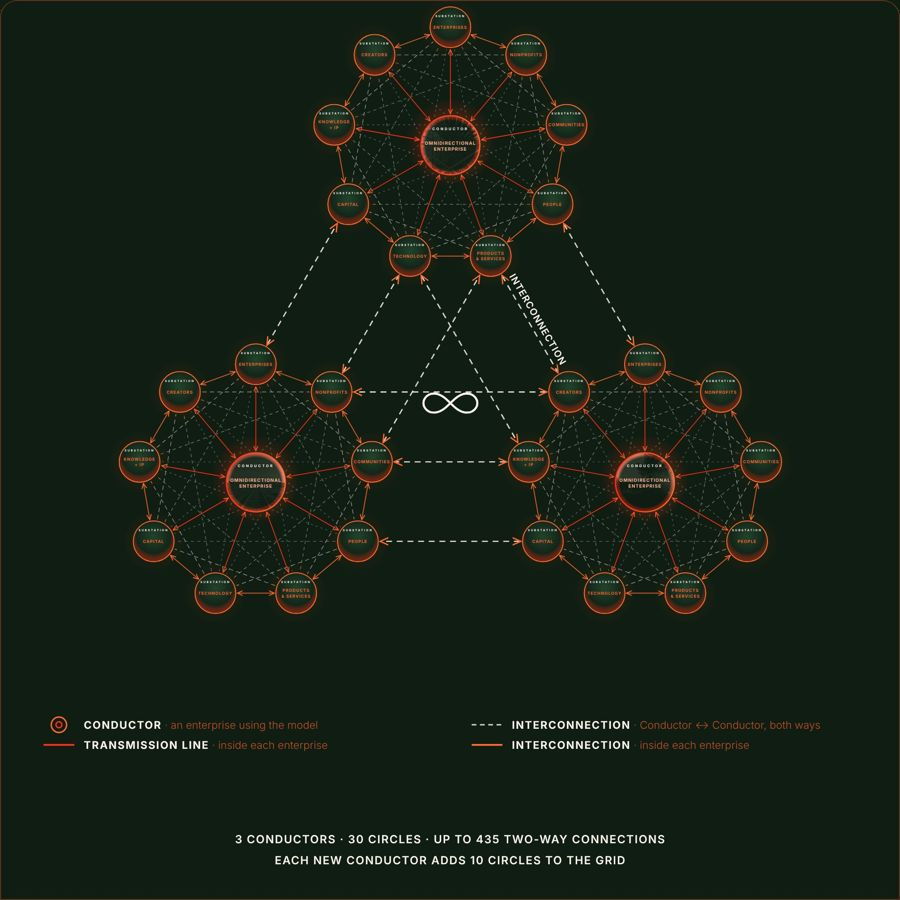
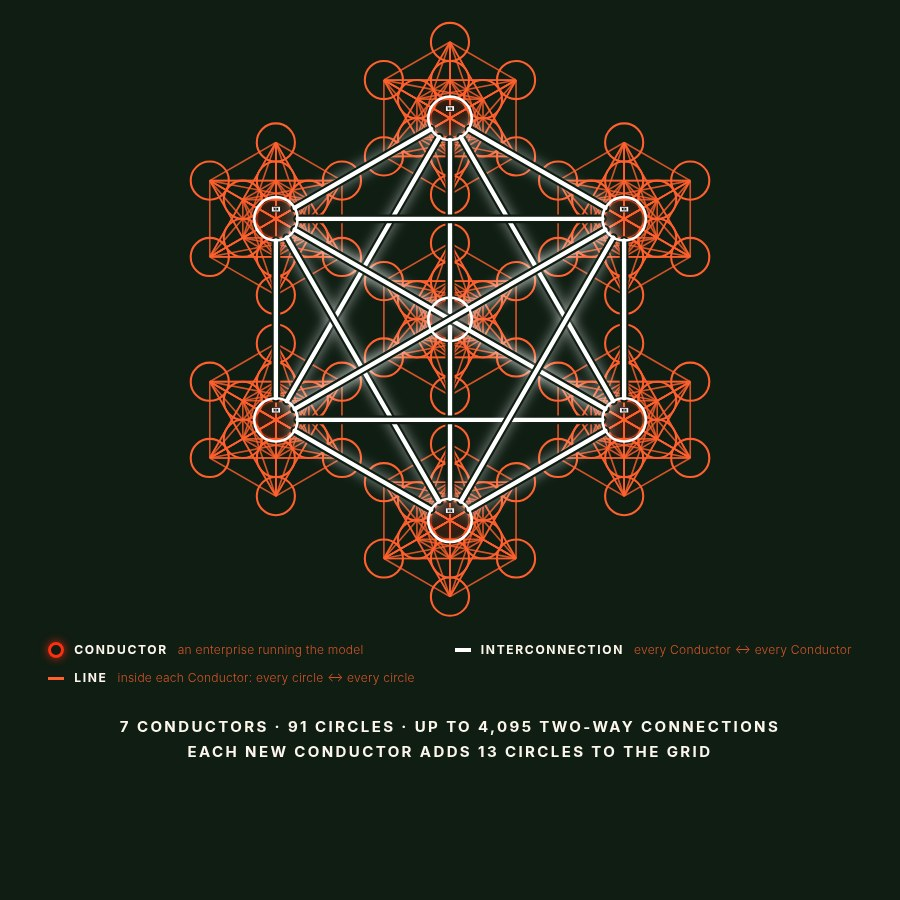
Omnidirectional Enterprise Model™ figures 1–4 on Metatron's Cube (interactive page, images, deck counts)

diff --git a/js/oe-figures.js b/js/oe-figures.js
@@ -23,13 +23,14 @@ const CUR=[
 ];
 const TYPES={
  source:{name:'The Source',kind:'Circle · centre',fn:'The Omnidirectional Enterprise Model™. It powers the whole system, owns and licenses the IP, and every substation draws from it.'},
- branch:{name:'Substation',kind:'Circle · substation',fn:'A place where economic activity happens. Each substation exchanges with the Source and with the substations beside it.'},
+ branch:{name:'Substation',kind:'Circle · substation',fn:'A place where economic activity happens. Each substation exchanges with the Source and with every other substation.'},
+ grid:{name:'The Grid',kind:'Circle · the next, larger cube',fn:'Every Grid is one circle of a larger Metatron’s Cube. The same geometry repeats at every scale, without end.'},
  trans:{name:'Transmission line',kind:'Line · Source ↔ substation',fn:'Carries power from the Source out to a substation and carries value back. Two-way.'},
  inter:{name:'Interconnection',kind:'Line · substation ↔ substation, Conductor ↔ Conductor',fn:'Lets two parts exchange directly, without going through the Source. This is what makes the model omnidirectional.'},
  current:{name:'Current',kind:'Line · flow of value',fn:'A flow of value. Currents can run from any circle to any other, in any direction, without end.'},
  badge:{name:'Current marker',kind:'Circle · number',fn:'Marks which Current runs along the line beside it. The key lists every Current.'},
  dist:{name:'Distribution line',kind:'Line · substation → Conductor',fn:'Carries power from a substation out to the Conductors that work in it.'},
- conductor:{name:'Conductor',kind:'Circle · an enterprise using the model',fn:'An enterprise using the model: its own Source, substations, Transmission lines and Interconnections, connected to the other enterprises.'},
+ conductor:{name:'Conductor',kind:'Cube · an enterprise using the model',fn:'An enterprise using the model: its own Source and 12 substations on the same Metatron’s Cube, connected to every other Conductor.'},
  ent:{name:'Enterprise',kind:'Circle · enterprise',fn:'An enterprise running the same model: its own Source and substations, connected to every other enterprise in the network.'},
  next:{name:'Next generation',kind:'Circle · outer ring',fn:'An enterprise a Conductor serves. Each Conductor runs the same model, so the web keeps growing outward.'},
  nextline:{name:'Next-generation line',kind:'Line · Conductor → next generation',fn:'Carries power from a Conductor to the enterprises, creators and communities it serves.'}
@@ -258,21 +259,94 @@ function liveCurrents(svg){
  const reduce=window.matchMedia&&matchMedia('(prefers-reduced-motion: reduce)').matches;
  if(!reduce)setInterval(()=>{if(svg.classList.contains('oef-flowing'))add();},450);
 }
+// ---- Metatron's Cube figures (exact geometry: 13 equal circles, centre + six at 2r + six at 4r, 78 lines) ----
+// Inner ring = independent (held inside an enterprise); outer ring = external, dependent participants.
+const MSLOT=[['o90','Enterprises'],['o30','Partners'],['o330','Nonprofits'],['o270','Communities'],['o210','Members'],['o150','Founders'],['i90','People'],['i30','Knowledge + IP'],['i330','Technology'],['i270','Products & Services'],['i210','Capital'],['i150','Creators']];
+const NEWBR={Partners:{n:'Partners',l:['Partnership™'],co:['Partnership™']},Members:{n:'Members',l:['The .LLab','Membership™'],co:['The .LLab','Membership™']},Founders:{n:'Founders',l:['The Co.LLab','Founders','Organization™'],co:['The Co.LLab','Founders','Organization™']}};
+const node=n=>BR.find(b=>b.n===n)||NEWBR[n];
+function mc(cx,cy,r){const c={core:[cx,cy]};for(let k=0;k<6;k++){const a=(90+60*k)%360,t=rad(a);c['i'+a]=[cx+2*r*Math.cos(t),cy-2*r*Math.sin(t)];c['o'+a]=[cx+4*r*Math.cos(t),cy-4*r*Math.sin(t)];}return c;}
+const NAME=Object.fromEntries(MSLOT);NAME.core='The Source';
+const HALO=`paint-order="stroke" stroke="${C.bg}" stroke-width="4" stroke-linejoin="round"`;
+const MCUR=[[1,'o90','core'],[1,'i210','core'],[2,'core','i30'],[2,'i30','o90'],[3,'o90','i30'],[4,'core','i330'],[4,'i330','i150'],[5,'i150','o270'],[6,'o90','i150'],[6,'o90','i90'],[7,'o270','o330']];
+// one small cube (no labels), used for Conductors
+function miniCube(x,y,r,o){o=o||{};const c=mc(x,y,r),k=Object.keys(c);let s='';
+ for(let i=0;i<13;i++)for(let j=i+1;j<13;j++){const [x1,y1]=c[k[i]],[x2,y2]=c[k[j]];s+=`<line x1="${x1.toFixed(1)}" y1="${y1.toFixed(1)}" x2="${x2.toFixed(1)}" y2="${y2.toFixed(1)}"/>`;}
+ s=`<g stroke="${C.f2}" stroke-opacity="${o.op||.82}" stroke-width="${o.lw||1}">${s}</g>`;
+ k.forEach(n=>{const [cx,cy]=c[n];s+=`<circle cx="${cx.toFixed(1)}" cy="${cy.toFixed(1)}" r="${r}" fill="none" stroke="${n==='core'?C.f1:C.f2}" stroke-width="${n==='core'?(o.cw||1.2)*1.6:(o.cw||1.2)}"/>`;});
+ return s;}
+function mFig(mode){
+ const W=760,H=mode===2?880:770,cx=380,cy=mode===2?378:385,r=62,c=mc(cx,cy,r),keys=Object.keys(c);let s=`<rect width="${W}" height="${H}" fill="${C.bg}"/><circle cx="${cx}" cy="${cy}" r="${2*r}" fill="url(#core${mode})"/>`;
+ for(let i=0;i<13;i++)for(let j=i+1;j<13;j++){const a=keys[i],b=keys[j],[x1,y1]=c[a],[x2,y2]=c[b];
+  if(a==='core'){const id=reg('trans',{name:`Transmission line · Source ↔ ${NAME[b]}`});s+=ln(x1,y1,x2,y2,C.f1,1.8,'oef-flow'+(j%2?' oef-rev':''),id,`stroke-opacity="${mode===2?.7:.95}"`);}
+  else{const id=reg('inter',{name:`Interconnection · ${NAME[a]} ↔ ${NAME[b]}`,kind:'Line · substation ↔ substation'});s+=ln(x1,y1,x2,y2,C.f2,1.4,'oef-flow'+((i+j)%2?' oef-rev':''),id,`stroke-opacity="${mode===2?.5:.72}"`);}}
+ let top='';
+ if(mode===2){const seen={},pts=Object.values(c);
+  MCUR.forEach(([k,a,b])=>{const key=[a,b].sort().join(),off=8*(seen[key]||0);seen[key]=(seen[key]||0)+1;const [x1,y1]=c[a],[x2,y2]=c[b],L=Math.hypot(x2-x1,y2-y1),ux=(x2-x1)/L,uy=(y2-y1)/L,nx=-uy*off,ny=ux*off;
+   const ax=x1+ux*(r+3)+nx,ay=y1+uy*(r+3)+ny,bx=x2-ux*(r+6)+nx,by=y2-uy*(r+6)+ny,cu=CUR[k-1];
+   const id=reg('current',{name:`${cu.n} (${k})`,kind:`Current · ${cu.d}`,fn:cu.w});
+   s+=`<line class="oef-part oef-flow" data-p="${id}" data-t="current" x1="${ax.toFixed(1)}" y1="${ay.toFixed(1)}" x2="${bx.toFixed(1)}" y2="${by.toFixed(1)}" stroke="${C.paper}" stroke-width="2.2" marker-end="url(#cur)"/>`;
+   let best=null,bd=-1;for(let t=4;t<=16;t++){const m=[ax+(bx-ax)*t/20,ay+(by-ay)*t/20],d=Math.min(...pts.map(p=>Math.hypot(m[0]-p[0],m[1]-p[1])));if(d>bd){bd=d;best=m;}}
+   const bid=reg('badge',{name:`Current marker ${k} · ${cu.n}`,fn:`${cu.d}. ${cu.w}`});
+   top+=`<g class="oef-part" data-p="${bid}" data-t="badge"><circle cx="${best[0].toFixed(1)}" cy="${best[1].toFixed(1)}" r="9.5" fill="${C.bg}" stroke="${C.paper}" stroke-width="1.4"/><text x="${best[0].toFixed(1)}" y="${(best[1]+3.6).toFixed(1)}" text-anchor="middle" font-size="10.5" font-weight="700" fill="${C.paper}">${k}</text></g>`;});}
+ const sid=reg('source',mode===2?{name:'The Source · The Co.LLab™'}:undefined);
+ s+=`<g class="oef-part" data-p="${sid}" data-t="source"><circle cx="${cx}" cy="${cy}" r="${r}" fill="none" pointer-events="visible" stroke="url(#fil${mode})" stroke-width="2.4" filter="url(#glow${mode})"/>
+ <text x="${cx}" y="${cy-(mode===2?14:8)}" text-anchor="middle" font-size="15" font-weight="600" fill="${C.paper}" ${HALO}>The Source</text>
+ <text x="${cx}" y="${cy+(mode===2?3:9)}" text-anchor="middle" font-size="8.5" font-weight="700" letter-spacing="1.2" fill="${C.fg}" ${HALO}>OMNIDIRECTIONAL</text>
+ <text x="${cx}" y="${cy+(mode===2?15:21)}" text-anchor="middle" font-size="8.5" font-weight="700" letter-spacing="1.2" fill="${C.fg}" ${HALO}>ENTERPRISE MODEL™</text>
+ ${mode===2?`<text x="${cx}" y="${cy+33}" text-anchor="middle" font-size="11" font-weight="700" fill="${C.paper}" ${HALO}>The Co.LLab™</text>`:''}</g>`;
+ MSLOT.forEach(([slot,n])=>{const b=node(n),[x,y]=c[slot],lines=mode===2?b.co:b.l,title=b.t||[b.n.toUpperCase()],ring=slot[0]==='i'?'Inner ring · independent':'Outer ring · external';
+  const id=reg('branch',{name:`Substation · ${b.n}`,kind:`Circle · substation · ${ring}`,fn:(mode===2?`Run inside The Co.LLab™ by ${b.co.join(' ')}. `:'')+(b.l||[]).join(' ')+' It exchanges with the Source and with every other substation.'});
+  const rows=title.length*12.5+lines.length*12.5+4;let yy=y-rows/2+10,t='';
+  title.forEach(tt=>{t+=`<text x="${x.toFixed(1)}" y="${yy.toFixed(1)}" text-anchor="middle" font-size="9.5" font-weight="700" letter-spacing="1.3" fill="${C.fg}" ${HALO}>${esc(tt)}</text>`;yy+=12.5;});yy+=4;
+  lines.forEach(tt=>{t+=`<text x="${x.toFixed(1)}" y="${yy.toFixed(1)}" text-anchor="middle" font-size="9.5" fill="${C.paper}" ${HALO}>${esc(tt)}</text>`;yy+=12.5;});
+  s+=`<g class="oef-part" data-p="${id}" data-t="branch"><circle cx="${x.toFixed(1)}" cy="${y.toFixed(1)}" r="${r}" fill="none" pointer-events="visible" stroke="${C.f2}" stroke-opacity=".9" stroke-width="1.6"/>${t}</g>`;});
+ s+=top;
+ if(mode===2){const y=H-96;s+=`<text x="28" y="${y}" font-size="11" font-weight="700" letter-spacing="1.5" fill="${C.fg}">KEY · THE CURRENTS</text>`;
+  CUR.forEach((cu,i)=>{const col=i<4?28:400,row=i<4?i:i-4;s+=`<text x="${col}" y="${y+22+row*19}" font-size="11.5" fill="${C.fg}"><tspan font-weight="700" fill="${C.paper}">${cu.k}</tspan>  ${esc(cu.n.replace('The ',''))}</text>`;});}
+ return wrapSvg(W,H,s,mode);}
+function connect(spots,cr,w,label){let s='';for(let i=0;i<spots.length;i++)for(let j=i+1;j<spots.length;j++){const [x1,y1,x2,y2]=trim(spots[i][0],spots[i][1],spots[j][0],spots[j][1],cr,cr);
+  const id=reg('inter',{name:label,kind:'Line · Conductor ↔ Conductor'});const a=`x1="${x1.toFixed(1)}" y1="${y1.toFixed(1)}" x2="${x2.toFixed(1)}" y2="${y2.toFixed(1)}"`;
+  s+=`<g class="oef-part" data-p="${id}" data-t="inter"><line ${a} stroke="${C.paper}" stroke-opacity=".3" stroke-width="${w*3}" stroke-linecap="round" filter="url(#icg)"/><line ${a} stroke="${C.bg}" stroke-width="${w+4}" stroke-linecap="round"/><line ${a} stroke="#fff" stroke-width="${w}" stroke-linecap="round"/></g>`;}
+ return s+spots.map(([x,y])=>`<circle cx="${x.toFixed(1)}" cy="${y.toFixed(1)}" r="${cr.toFixed(1)}" fill="none" stroke="#fff" stroke-width="${(w*.6).toFixed(1)}" pointer-events="none"/>`).join('');}
+const ICG='<defs><filter id="icg" x="-20%" y="-20%" width="140%" height="140%"><feGaussianBlur stdDeviation="5"/></filter></defs>';
+function mFew(){
+ const W=760,H=760,cx=380,cy=380,rs=23.5,D=252;const spots=[[cx,cy],...[0,1,2,3,4,5].map(k=>[cx+D*Math.cos(rad(90+60*k)),cy-D*Math.sin(rad(90+60*k))])];
+ let s=`<rect width="${W}" height="${H}" fill="${C.bg}"/>${ICG}`;
+ spots.forEach(([x,y],i)=>{const id=reg('conductor',{name:i===0?'Conductor · at the centre':'Conductor'});s+=`<g class="oef-part" data-p="${id}" data-t="conductor"><circle cx="${x.toFixed(1)}" cy="${y.toFixed(1)}" r="${(5*rs).toFixed(1)}" fill="${C.bg}" fill-opacity="0" pointer-events="visible"/>${miniCube(x,y,rs,{lw:1,op:.85,cw:1.3})}</g>`;});
+ s+=connect(spots,rs+3,4,'Interconnection · Conductor ↔ Conductor');
+ const [lx,ly]=spots[4];s+=`<text class="oef-lbl" x="${lx.toFixed(1)}" y="${(ly+5*rs+9).toFixed(1)}" text-anchor="middle">CONDUCTOR</text>`;
+ s+=`<text class="oef-lbl" x="${cx}" y="${(cy-D/2+4).toFixed(1)}" text-anchor="middle">INTERCONNECTION</text>`;
+ return wrapSvg(W,H,s,3);}
+function mGrid(){
+ const W=760,H=760,cx=380,cy=380,G=68,big=5*G,pos=mc(cx,cy,G),spots=Object.values(pos);
+ let s=`<rect width="${W}" height="${H}" fill="${C.bg}"/>${ICG}<defs><radialGradient id="gfade" cx="50%" cy="50%" r="60%"><stop offset=".55" stop-color="#fff" stop-opacity="0"/><stop offset=".75" stop-color="#fff" stop-opacity="1"/><stop offset="1" stop-color="#fff" stop-opacity=".2"/></radialGradient><mask id="gmask"><rect width="${W}" height="${H}" fill="url(#gfade)"/></mask></defs>`;
+ const ghosts=[[cx,cy],...[0,1,2,3,4,5].map(k=>[cx+2*big*Math.cos(rad(90+60*k)),cy-2*big*Math.sin(rad(90+60*k))])];
+ let g='';ghosts.forEach(([x,y],i)=>{const id=reg('grid',i===0?{name:'The Grid · one circle of the next, larger cube'}:{name:'The next Grid'});g+=`<circle class="oef-part" data-p="${id}" data-t="grid" cx="${x.toFixed(1)}" cy="${y.toFixed(1)}" r="${big}" fill="none" stroke="${C.paper}" stroke-opacity=".55" stroke-width="2"/>`;});
+ for(let i=0;i<7;i++)for(let j=i+1;j<7;j++){g+=`<line x1="${ghosts[i][0].toFixed(1)}" y1="${ghosts[i][1].toFixed(1)}" x2="${ghosts[j][0].toFixed(1)}" y2="${ghosts[j][1].toFixed(1)}" stroke="${C.paper}" stroke-opacity=".35" stroke-width="1.5"/>`;}
+ s+=`<g mask="url(#gmask)">${g}</g>`;
+ spots.forEach(([x,y],i)=>{const id=reg('conductor',{name:i===0?'The Co.LLab™ · the Conductor at the centre':'Conductor'});s+=`<g class="oef-part" data-p="${id}" data-t="conductor"><circle cx="${x.toFixed(1)}" cy="${y.toFixed(1)}" r="${G}" fill="${C.bg}" fill-opacity="0" pointer-events="visible"/>${miniCube(x,y,G/5,{lw:.7,op:.85,cw:.9})}</g>`;});
+ s+=connect(spots,G/5+2,2.2,'Interconnection · Conductor ↔ Conductor');
+ s+=`<text x="${cx}" y="${cy+4}" text-anchor="middle" font-size="10" font-weight="700" fill="${C.paper}" ${HALO}>The Co.LLab™</text>`;
+ s+=`<text class="oef-lbl" x="${cx}" y="${(cy-big-8).toFixed(1)}" text-anchor="middle">THE GRID · ONE CIRCLE OF THE NEXT CUBE</text>`;
+ return wrapSvg(W,H,s,4);}
+
 const CAP={
- 1:'<b>Figure 1 · Phase I · Foundations.</b> The Source at the centre and its substations around it. Transmission lines join each substation to the Source; Interconnections join each substation to the substations beside it. Every line runs both ways.',
- 2:'<b>Figure 2 · Phase II · Infrastructure Planning & Management.</b> The model The Co.LLab™ runs on, with every connection drawn: each circle connects with every other circle, both ways. Each substation names the part of The Co.LLab™ that runs it, and the numbered Currents are the named flows of value we run today.',
- 3:'<b>Figure 3 · Phase III · Internal Operating Systems.</b> Three Conductors, each a whole copy of the model in Figure 2, interacting substation to substation through Interconnections, both ways.',
- 4:'<b>Figure 4 · Phase IV · Preservation.</b> Conductors wired together: each runs the whole model, and Interconnections join its substations to the Conductors around it. Every Conductor adds circles, and the number of possible connections grows faster than the number of circles.'
+ 1:'<b>Figure 1 · Phase I · Foundations.</b> The Omnidirectional Enterprise Model™ as Metatron’s Cube: the Source at the centre and 12 substations around it, independent ones on the inner ring and external ones on the outer ring. Transmission lines join each substation to the Source; Interconnections join every substation to every other. Every line runs both ways. 1 Source · 12 substations · 78 two-way lines.',
+ 2:'<b>Figure 2 · Phase II · Infrastructure Planning & Management.</b> The model The Co.LLab™ runs on, with every connection drawn: each circle connects with every other circle, both ways. Each substation names the part of The Co.LLab™ that runs it, and the numbered Currents are the named flows of value we run today. 13 circles · 78 two-way connections · 7 Currents.',
+ 3:'<b>Figure 3 · Phase III · Internal Operating Systems.</b> Seven Conductors, each a whole copy of the model, every Conductor joined to every other by an Interconnection, both ways. Each new Conductor adds 13 circles. 7 Conductors · 91 circles · up to 4,095 two-way connections.',
+ 4:'<b>Figure 4 · Phase IV · Preservation.</b> The Grid: 13 Conductors on the 13 circles of a larger Metatron’s Cube, joined by its 78 lines. The next, larger cube fades in at the edges: every Grid is one circle of a larger cube, without end. 13 Conductors · 169 circles · up to 14,196 two-way connections.'
 };
 const roots=[...document.querySelectorAll('.oef-figure[data-fig]')];
 if(!roots.length)return;
 const ICON={source:`<circle cx="17" cy="10" r="8" fill="none" stroke="${C.f2}" stroke-width="1.8"/>`,branch:`<circle cx="17" cy="10" r="6" fill="none" stroke="${C.hair}" stroke-width="2"/>`,conductor:`<circle cx="17" cy="10" r="5" fill="${C.f2}"/>`,next:`<circle cx="17" cy="10" r="3" fill="${C.f2}" fill-opacity=".65"/>`,trans:`<line x1="3" x2="31" y1="10" y2="10" stroke="${C.f1}" stroke-width="2"/>`,dist:`<line x1="3" x2="31" y1="10" y2="10" stroke="${C.f2}" stroke-width="1.6"/>`,inter:`<line x1="3" x2="31" y1="10" y2="10" stroke="${C.paper}" stroke-width="1.4" stroke-dasharray="5 4"/>`,current:`<line x1="3" x2="31" y1="10" y2="10" stroke="${C.paper}" stroke-width="1.6" stroke-dasharray="5 4"/>`,badge:`<circle cx="17" cy="10" r="8" fill="none" stroke="${C.paper}" stroke-width="1.3"/>`,nextline:`<line x1="3" x2="31" y1="10" y2="10" stroke="${C.f2}" stroke-opacity=".5" stroke-width="1"/>`};
+ICON.grid=`<circle cx="17" cy="10" r="8" fill="none" stroke="${C.paper}" stroke-opacity=".6" stroke-width="1.4"/>`;
+ICON.conductor=`<circle cx="17" cy="10" r="7" fill="none" stroke="${C.f2}" stroke-width="1.4"/><circle cx="17" cy="10" r="2.6" fill="none" stroke="#fff" stroke-width="1.4"/>`;
 ICON.ent=`<circle cx="17" cy="10" r="7" fill="none" stroke="${C.f2}" stroke-width="1.6"/><circle cx="17" cy="10" r="2.5" fill="${C.f2}"/>`;
 const flowBox=document.getElementById('oef-flow'),lblBox=document.getElementById('oef-labels');
 function mount(root){
  const fig=+root.dataset.fig,q=sel=>root.querySelector(sel);
  const figEl=q('.oef-fig'),partsEl=q('.oef-parts-list'),pKind=q('.oef-kind'),pName=q('.oef-name'),pFn=q('.oef-fn');
- parts=[];figEl.innerHTML=fig===4?netFig():fig===3?fewFig():fig===2?coFig():basicFig();const my=parts;q('.oef-caption').innerHTML=CAP[fig];
+ parts=[];figEl.innerHTML=fig===4?mGrid():fig===3?mFew():mFig(fig);const my=parts;q('.oef-caption').innerHTML=CAP[fig];
  const svg=figEl.querySelector('svg');
  const show=p=>{pKind.textContent=p.kind;pName.textContent=p.name;pFn.textContent=p.fn;};
  const hot=(type,idx)=>{svg.classList.toggle('oef-dimmed',!!type);

diff --git a/pages/oe-business-model.html b/pages/oe-business-model.html
@@ -373,7 +373,7 @@
       <p class="eyebrow">Figure 3 · A few enterprises</p>
       <h2 class="headline" style="max-width:28ch;">Enterprises plug in, <strong>and start collaborating.</strong></h2>
       <p class="subhead" style="margin-top:1.25rem; max-width:66ch;">From there, any enterprise can run the model. Each one becomes a Conductor: its own Source, substations, Transmission lines and Interconnections, wired straight into the substations of other Conductors, both ways.</p>
-      <ol class="oef-read" style="margin:1.25rem 0 0;padding-left:1.25rem;max-width:66ch;line-height:1.6;"><li><b>Find one Conductor.</b> A whole Omnidirectional Enterprise, drawn as in Figure 2.</li><li><b>Follow an Interconnection across.</b> Dashed lines join its substations to the substations of the other Conductors.</li></ol>
+      <ol class="oef-read" style="margin:1.25rem 0 0;padding-left:1.25rem;max-width:66ch;line-height:1.6;"><li><b>Find one Conductor.</b> A whole Omnidirectional Enterprise, drawn as in Figure 2.</li><li><b>Follow an Interconnection across.</b> Solid white lines join every Conductor to every other Conductor, both ways.</li></ol>
       <p style="margin-top:1rem;font-weight:600;"><a href="omnidirectional-enterprise.html#figure-3">See Figure 3 →</a></p>
         </div>
       </div>
@@ -388,7 +388,7 @@
       <p class="eyebrow">Figure 4 · The Grid</p>
       <h2 class="headline" style="max-width:28ch;">Conductors wired together: <strong>the Grid.</strong></h2>
       <p class="subhead" style="margin-top:1.25rem; max-width:66ch;">Every enterprise that runs the model is a Conductor, and every Conductor joins the Grid. Interconnections link its substations to the Conductors around it, so value can travel from any circle to any other. And here is the power of it: every new Conductor adds circles, but connections grow faster than circles. n circles can make n(n−1)/2 two-way connections.</p>
-      <ol class="oef-read" style="margin:1.25rem 0 0;padding-left:1.25rem;max-width:66ch;line-height:1.6;"><li><b>Find The Co.LLab™ in the centre.</b> One Conductor, the one we run.</li><li><b>Look around it.</b> Other Conductors, each running the whole model, each with its own Source and substations.</li><li><b>Follow an Interconnection across.</b> Substation to substation, Conductor to Conductor, both ways. More Conductors can join, without end.</li></ol>
+      <ol class="oef-read" style="margin:1.25rem 0 0;padding-left:1.25rem;max-width:66ch;line-height:1.6;"><li><b>Find The Co.LLab™ in the centre.</b> One Conductor, the one we run.</li><li><b>Look around it.</b> Other Conductors, each running the whole model, each with its own Source and substations.</li><li><b>Follow an Interconnection across.</b> Substation to substation, Conductor to Conductor, both ways. More Conductors can join, without end: every Grid is one circle of a larger cube.</li></ol>
       <p style="margin-top:1rem;font-weight:600;"><a href="omnidirectional-enterprise.html#figure-4">See Figure 4 →</a></p>
         </div>
       </div>
@@ -432,8 +432,8 @@
           <circle cx="430.0" cy="430.0" r="84" fill="#0f1d13" fill-opacity="0" stroke="url(#oe-fil)" stroke-width="2" filter="url(#oe-glow)"/>
           <image href="../assets/img/logo-mark.png" x="406.0" y="372.0" width="48" height="30.9"/>
           <text x="430.0" y="432.0" text-anchor="middle" class="oe-c-name" style="font-size:25px" paint-order="stroke" stroke="#0f1d13" stroke-width="6" stroke-linejoin="round">The Co.LLab™</text>
-          <text x="430.0" y="454.0" text-anchor="middle" class="oe-c-sub" paint-order="stroke" stroke="#0f1d13" stroke-width="6" stroke-linejoin="round">LEADERSHIP</text>
-          <text x="430.0" y="471.0" text-anchor="middle" class="oe-c-sub" paint-order="stroke" stroke="#0f1d13" stroke-width="6" stroke-linejoin="round">INFRASTRUCTURE™</text>
+          <text x="430.0" y="454.0" text-anchor="middle" class="oe-c-sub" style="letter-spacing:.14em" paint-order="stroke" stroke="#0f1d13" stroke-width="6" stroke-linejoin="round">LEADERSHIP</text>
+          <text x="430.0" y="471.0" text-anchor="middle" class="oe-c-sub" style="letter-spacing:.14em" paint-order="stroke" stroke="#0f1d13" stroke-width="6" stroke-linejoin="round">INFRASTRUCTURE™</text>
           <a href="partnership.html#tiers" class="oe-link" data-node="Enterprises" aria-label="Enterprises — Partnership™"><circle cx="430.0" cy="94.0" r="84" fill="#0f1d13" fill-opacity="0" stroke="rgba(255,96,46,.62)" stroke-width="1.8"/><text x="430.0" y="70.5" text-anchor="middle" class="oe-n-title" paint-order="stroke" stroke="#0f1d13" stroke-width="6" stroke-linejoin="round">ENTERPRISES</text><text x="430.0" y="92.5" text-anchor="middle" class="oe-n-line" paint-order="stroke" stroke="#0f1d13" stroke-width="6" stroke-linejoin="round">Create products.</text><text x="430.0" y="109.5" text-anchor="middle" class="oe-n-line" paint-order="stroke" stroke="#0f1d13" stroke-width="6" stroke-linejoin="round">Generate wealth.</text><text x="430.0" y="126.5" text-anchor="middle" class="oe-n-line" paint-order="stroke" stroke="#0f1d13" stroke-width="6" stroke-linejoin="round">Build solutions.</text></a>
           <a href="partnership.html" class="oe-link" data-node="Partners" aria-label="Partners — Partnership™"><circle cx="721.0" cy="262.0" r="84" fill="#0f1d13" fill-opacity="0" stroke="rgba(255,96,46,.62)" stroke-width="1.8"/><text x="721.0" y="255.5" text-anchor="middle" class="oe-n-title" paint-order="stroke" stroke="#0f1d13" stroke-width="6" stroke-linejoin="round">PARTNERS</text><text x="721.0" y="277.5" text-anchor="middle" class="oe-n-line" paint-order="stroke" stroke="#0f1d13" stroke-width="6" stroke-linejoin="round">Partnership™</text></a>
           <a href="impact.html" class="oe-link" data-node="Nonprofits" aria-label="Nonprofits — The .LLab Impact™"><circle cx="721.0" cy="598.0" r="84" fill="#0f1d13" fill-opacity="0" stroke="rgba(255,96,46,.62)" stroke-width="1.8"/><text x="721.0" y="566.0" text-anchor="middle" class="oe-n-title" paint-order="stroke" stroke="#0f1d13" stroke-width="6" stroke-linejoin="round">NONPROFITS</text><text x="721.0" y="588.0" text-anchor="middle" class="oe-n-line" paint-order="stroke" stroke="#0f1d13" stroke-width="6" stroke-linejoin="round">Address needs.</text><text x="721.0" y="605.0" text-anchor="middle" class="oe-n-line" paint-order="stroke" stroke="#0f1d13" stroke-width="6" stroke-linejoin="round">Create change.</text><text x="721.0" y="622.0" text-anchor="middle" class="oe-n-line" paint-order="stroke" stroke="#0f1d13" stroke-width="6" stroke-linejoin="round">Build stronger</text><text x="721.0" y="639.0" text-anchor="middle" class="oe-n-line" paint-order="stroke" stroke="#0f1d13" stroke-width="6" stroke-linejoin="round">communities.</text></a>

diff --git a/index.html b/index.html
@@ -278,8 +278,8 @@
           <circle cx="430.0" cy="430.0" r="84" fill="#0f1d13" fill-opacity="0" stroke="url(#oe-fil)" stroke-width="2" filter="url(#oe-glow)"/>
           <image href="assets/img/logo-mark.png" x="406.0" y="372.0" width="48" height="30.9"/>
           <text x="430.0" y="432.0" text-anchor="middle" class="oe-c-name" style="font-size:25px" paint-order="stroke" stroke="#0f1d13" stroke-width="6" stroke-linejoin="round">The Co.LLab™</text>
-          <text x="430.0" y="454.0" text-anchor="middle" class="oe-c-sub" paint-order="stroke" stroke="#0f1d13" stroke-width="6" stroke-linejoin="round">LEADERSHIP</text>
-          <text x="430.0" y="471.0" text-anchor="middle" class="oe-c-sub" paint-order="stroke" stroke="#0f1d13" stroke-width="6" stroke-linejoin="round">INFRASTRUCTURE™</text>
+          <text x="430.0" y="454.0" text-anchor="middle" class="oe-c-sub" style="letter-spacing:.14em" paint-order="stroke" stroke="#0f1d13" stroke-width="6" stroke-linejoin="round">LEADERSHIP</text>
+          <text x="430.0" y="471.0" text-anchor="middle" class="oe-c-sub" style="letter-spacing:.14em" paint-order="stroke" stroke="#0f1d13" stroke-width="6" stroke-linejoin="round">INFRASTRUCTURE™</text>
           <a href="pages/partnership.html#tiers" class="oe-link" data-node="Enterprises" aria-label="Enterprises — Partnership™"><circle cx="430.0" cy="94.0" r="84" fill="#0f1d13" fill-opacity="0" stroke="rgba(255,96,46,.62)" stroke-width="1.8"/><text x="430.0" y="70.5" text-anchor="middle" class="oe-n-title" paint-order="stroke" stroke="#0f1d13" stroke-width="6" stroke-linejoin="round">ENTERPRISES</text><text x="430.0" y="92.5" text-anchor="middle" class="oe-n-line" paint-order="stroke" stroke="#0f1d13" stroke-width="6" stroke-linejoin="round">Create products.</text><text x="430.0" y="109.5" text-anchor="middle" class="oe-n-line" paint-order="stroke" stroke="#0f1d13" stroke-width="6" stroke-linejoin="round">Generate wealth.</text><text x="430.0" y="126.5" text-anchor="middle" class="oe-n-line" paint-order="stroke" stroke="#0f1d13" stroke-width="6" stroke-linejoin="round">Build solutions.</text></a>
           <a href="pages/partnership.html" class="oe-link" data-node="Partners" aria-label="Partners — Partnership™"><circle cx="721.0" cy="262.0" r="84" fill="#0f1d13" fill-opacity="0" stroke="rgba(255,96,46,.62)" stroke-width="1.8"/><text x="721.0" y="255.5" text-anchor="middle" class="oe-n-title" paint-order="stroke" stroke="#0f1d13" stroke-width="6" stroke-linejoin="round">PARTNERS</text><text x="721.0" y="277.5" text-anchor="middle" class="oe-n-line" paint-order="stroke" stroke="#0f1d13" stroke-width="6" stroke-linejoin="round">Partnership™</text></a>
           <a href="pages/impact.html" class="oe-link" data-node="Nonprofits" aria-label="Nonprofits — The .LLab Impact™"><circle cx="721.0" cy="598.0" r="84" fill="#0f1d13" fill-opacity="0" stroke="rgba(255,96,46,.62)" stroke-width="1.8"/><text x="721.0" y="566.0" text-anchor="middle" class="oe-n-title" paint-order="stroke" stroke="#0f1d13" stroke-width="6" stroke-linejoin="round">NONPROFITS</text><text x="721.0" y="588.0" text-anchor="middle" class="oe-n-line" paint-order="stroke" stroke="#0f1d13" stroke-width="6" stroke-linejoin="round">Address needs.</text><text x="721.0" y="605.0" text-anchor="middle" class="oe-n-line" paint-order="stroke" stroke="#0f1d13" stroke-width="6" stroke-linejoin="round">Create change.</text><text x="721.0" y="622.0" text-anchor="middle" class="oe-n-line" paint-order="stroke" stroke="#0f1d13" stroke-width="6" stroke-linejoin="round">Build stronger</text><text x="721.0" y="639.0" text-anchor="middle" class="oe-n-line" paint-order="stroke" stroke="#0f1d13" stroke-width="6" stroke-linejoin="round">communities.</text></a>

diff --git a/pages/think.html b/pages/think.html
@@ -241,8 +241,8 @@
           <circle cx="430.0" cy="430.0" r="84" fill="#0f1d13" fill-opacity="0" stroke="url(#oe-fil)" stroke-width="2" filter="url(#oe-glow)"/>
           <image href="../assets/img/logo-mark.png" x="406.0" y="372.0" width="48" height="30.9"/>
           <text x="430.0" y="432.0" text-anchor="middle" class="oe-c-name" style="font-size:25px" paint-order="stroke" stroke="#0f1d13" stroke-width="6" stroke-linejoin="round">The Co.LLab™</text>
-          <text x="430.0" y="454.0" text-anchor="middle" class="oe-c-sub" paint-order="stroke" stroke="#0f1d13" stroke-width="6" stroke-linejoin="round">LEADERSHIP</text>
-          <text x="430.0" y="471.0" text-anchor="middle" class="oe-c-sub" paint-order="stroke" stroke="#0f1d13" stroke-width="6" stroke-linejoin="round">INFRASTRUCTURE™</text>
+          <text x="430.0" y="454.0" text-anchor="middle" class="oe-c-sub" style="letter-spacing:.14em" paint-order="stroke" stroke="#0f1d13" stroke-width="6" stroke-linejoin="round">LEADERSHIP</text>
+          <text x="430.0" y="471.0" text-anchor="middle" class="oe-c-sub" style="letter-spacing:.14em" paint-order="stroke" stroke="#0f1d13" stroke-width="6" stroke-linejoin="round">INFRASTRUCTURE™</text>
           <a href="partnership.html#tiers" class="oe-link" data-node="Enterprises" aria-label="Enterprises — Partnership™"><circle cx="430.0" cy="94.0" r="84" fill="#0f1d13" fill-opacity="0" stroke="rgba(255,96,46,.62)" stroke-width="1.8"/><text x="430.0" y="70.5" text-anchor="middle" class="oe-n-title" paint-order="stroke" stroke="#0f1d13" stroke-width="6" stroke-linejoin="round">ENTERPRISES</text><text x="430.0" y="92.5" text-anchor="middle" class="oe-n-line" paint-order="stroke" stroke="#0f1d13" stroke-width="6" stroke-linejoin="round">Create products.</text><text x="430.0" y="109.5" text-anchor="middle" class="oe-n-line" paint-order="stroke" stroke="#0f1d13" stroke-width="6" stroke-linejoin="round">Generate wealth.</text><text x="430.0" y="126.5" text-anchor="middle" class="oe-n-line" paint-order="stroke" stroke="#0f1d13" stroke-width="6" stroke-linejoin="round">Build solutions.</text></a>
           <a href="partnership.html" class="oe-link" data-node="Partners" aria-label="Partners — Partnership™"><circle cx="721.0" cy="262.0" r="84" fill="#0f1d13" fill-opacity="0" stroke="rgba(255,96,46,.62)" stroke-width="1.8"/><text x="721.0" y="255.5" text-anchor="middle" class="oe-n-title" paint-order="stroke" stroke="#0f1d13" stroke-width="6" stroke-linejoin="round">PARTNERS</text><text x="721.0" y="277.5" text-anchor="middle" class="oe-n-line" paint-order="stroke" stroke="#0f1d13" stroke-width="6" stroke-linejoin="round">Partnership™</text></a>
           <a href="impact.html" class="oe-link" data-node="Nonprofits" aria-label="Nonprofits — The .LLab Impact™"><circle cx="721.0" cy="598.0" r="84" fill="#0f1d13" fill-opacity="0" stroke="rgba(255,96,46,.62)" stroke-width="1.8"/><text x="721.0" y="566.0" text-anchor="middle" class="oe-n-title" paint-order="stroke" stroke="#0f1d13" stroke-width="6" stroke-linejoin="round">NONPROFITS</text><text x="721.0" y="588.0" text-anchor="middle" class="oe-n-line" paint-order="stroke" stroke="#0f1d13" stroke-width="6" stroke-linejoin="round">Address needs.</text><text x="721.0" y="605.0" text-anchor="middle" class="oe-n-line" paint-order="stroke" stroke="#0f1d13" stroke-width="6" stroke-linejoin="round">Create change.</text><text x="721.0" y="622.0" text-anchor="middle" class="oe-n-line" paint-order="stroke" stroke="#0f1d13" stroke-width="6" stroke-linejoin="round">Build stronger</text><text x="721.0" y="639.0" text-anchor="middle" class="oe-n-line" paint-order="stroke" stroke="#0f1d13" stroke-width="6" stroke-linejoin="round">communities.</text></a>

diff --git a/CLAUDE.md b/CLAUDE.md
@@ -2,7 +2,7 @@
 Static site + Netlify Functions. Live: https://wearethellab.com (Netlify publishes `main`, no build step). Strategy: `STRATEGY.md`. State: `PROJECT_CHECKPOINT.md`.
 
 ## Commands
-`npm test` (198 tests) · `npm run photos` (bulk photo intake) · `npm run gallery` (Lookbook page parked; `--force` to rebuild) · `node scripts/build-ads.mjs` · `node scripts/build-partnership-page.mjs` (tier tables from pricing) · `node scripts/build-ip-license.mjs` · `node scripts/build-hub.mjs` (all-products hub from pricing) · `node scripts/generate-pdfs.mjs <key>` (product PDFs) · `npm run pitch` (rebuilds assets/pitch/ pitch + deck from pricing.json; the "Rebuild pitch" workflow does it automatically on main, a test fails if stale) · `node scripts/build-nav.mjs` (header + footer menus on every page) · `node scripts/apply-oe-metatron.mjs` (draws every Omnidirectional Enterprise™ model on the site as Metatron's Cube from `scripts/oe-metatron.mjs`: 13 equal circles, 78 lines, inner ring independent, outer ring external; keeps each page's links and lit nodes; idempotent. The pitch and deck draw the same figure from `scripts/pitch/metatron.mjs`) · `node scripts/build-quests.mjs` (free-tool quests) · `node scripts/build-paid-quests.mjs` (39 paid IP quests: 25 read from the workbooks, 14 hand-written for guides, manuals and magazines; needs pdftotext) · `node scripts/block-paid-files.mjs` (run after adding any paid PDF: blocks it from public download). New product with no Stripe link yet: add it to pricing.json with `stripe_pending: true` (hub shows "Available soon"); run the owner-only `admin-setup-stripe-products` function (curl with X-Admin-Token; creates the Stripe product, price and Payment Link, `?dry=1` to preview), save its `results` as links.json and run `node scripts/apply-stripe-links.mjs links.json` (writes the ids, clears the flags, rebuilds the hub and pitch)
+`npm test` (198 tests) · `npm run photos` (bulk photo intake) · `npm run gallery` (Lookbook page parked; `--force` to rebuild) · `node scripts/build-ads.mjs` · `node scripts/build-partnership-page.mjs` (tier tables from pricing) · `node scripts/build-ip-license.mjs` · `node scripts/build-hub.mjs` (all-products hub from pricing) · `node scripts/generate-pdfs.mjs <key>` (product PDFs) · `npm run pitch` (rebuilds assets/pitch/ pitch + deck from pricing.json; the "Rebuild pitch" workflow does it automatically on main, a test fails if stale) · `node scripts/build-nav.mjs` (header + footer menus on every page) · `node scripts/apply-oe-metatron.mjs` (draws every Omnidirectional Enterprise™ model on the site as Metatron's Cube from `scripts/oe-metatron.mjs`: 13 equal circles, 78 lines, inner ring independent, outer ring external; keeps each page's links and lit nodes; idempotent. The pitch and deck draw the same figure from `scripts/pitch/metatron.mjs`) · `node scripts/oe-figures.mjs` (redraws the four Omnidirectional Enterprise Model™ figure images, assets/img/oe/ + scripts/pitch/assets/, from the same model; the interactive versions on omnidirectional-enterprise.html are drawn by `js/oe-figures.js`) · `node scripts/build-quests.mjs` (free-tool quests) · `node scripts/build-paid-quests.mjs` (39 paid IP quests: 25 read from the workbooks, 14 hand-written for guides, manuals and magazines; needs pdftotext) · `node scripts/block-paid-files.mjs` (run after adding any paid PDF: blocks it from public download). New product with no Stripe link yet: add it to pricing.json with `stripe_pending: true` (hub shows "Available soon"); run the owner-only `admin-setup-stripe-products` function (curl with X-Admin-Token; creates the Stripe product, price and Payment Link, `?dry=1` to preview), save its `results` as links.json and run `node scripts/apply-stripe-links.mjs links.json` (writes the ids, clears the flags, rebuilds the hub and pitch)
 
 ## Map
 `index.html` Home · `pages/*.html` (partnership, founders, products=.LLab, think [framework], journal, about, creator, impact, atelier, community, technology,  · `content/*.json` (CMS copy, `pricing.json` = prices/Stripe) · `css/base.css` (all components at the end) · `js/main.js` · `netlify/functions/` · `assets/img/editorial/` (photos + `manifest.json`) · `marketing/ads/` (generated).
